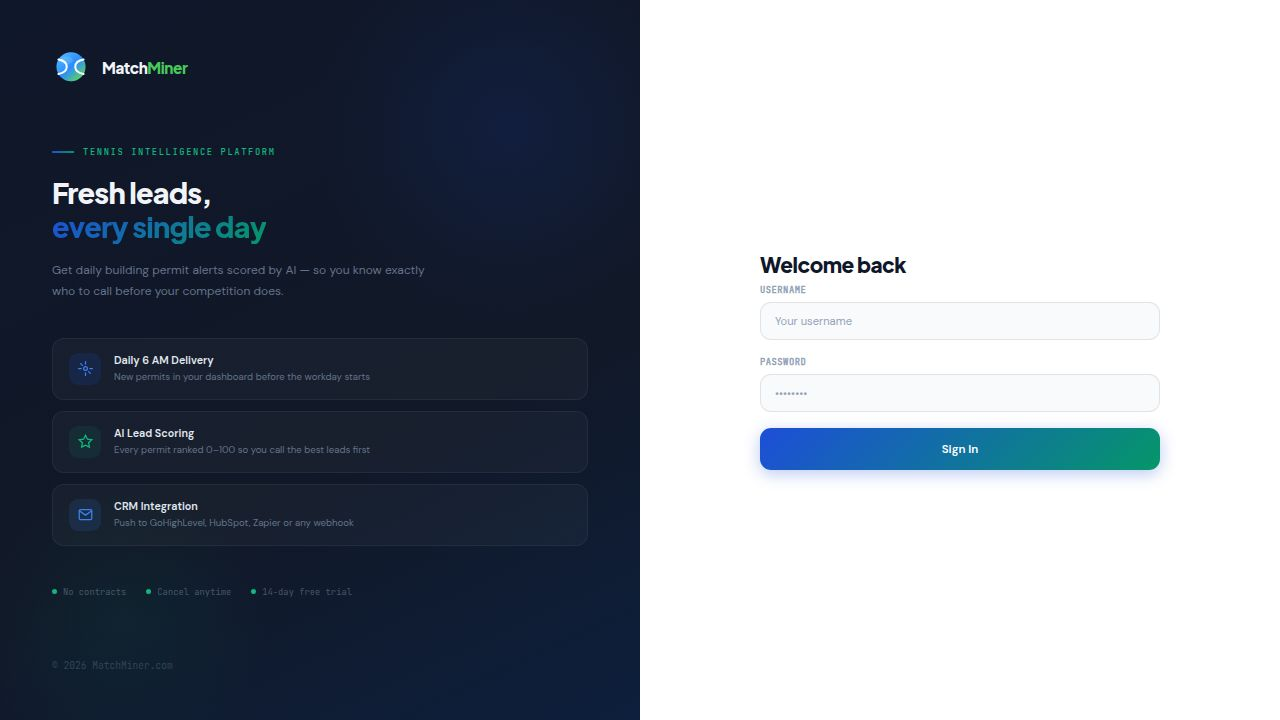
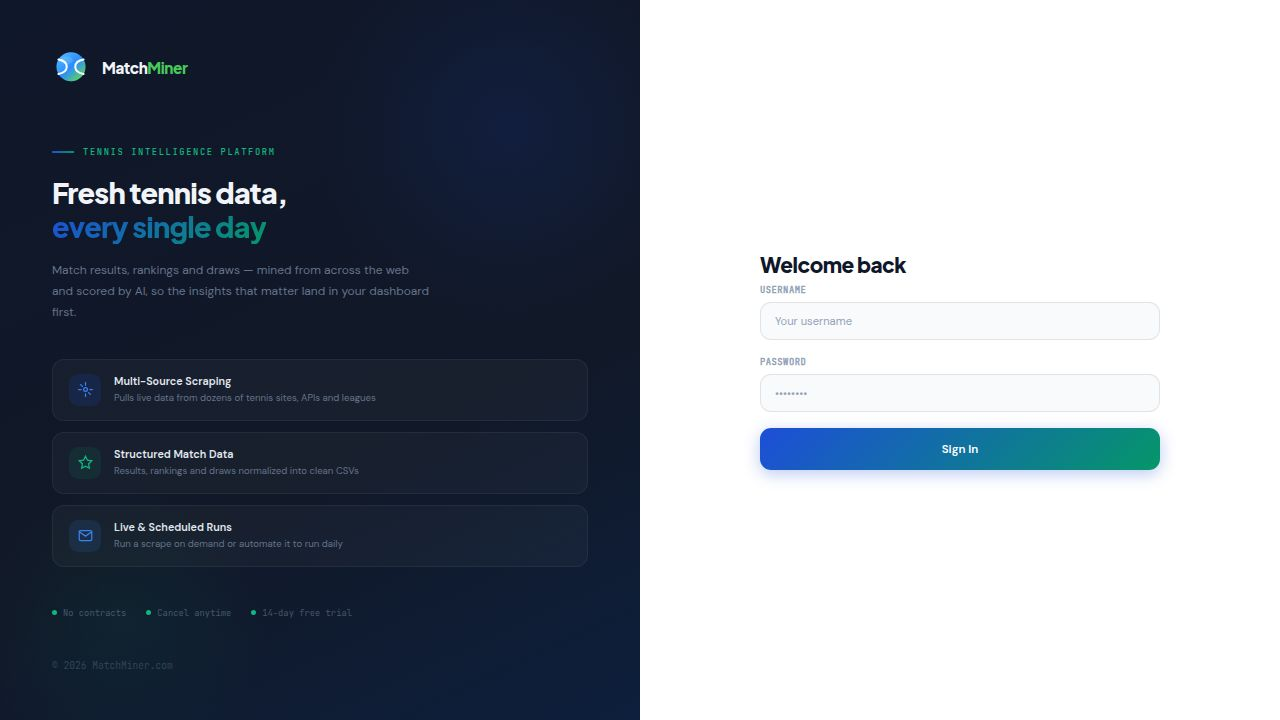
Add ability for administrators to delete tickets
Adds a superuser-only delete functionality for QA tickets, including a new view, URL, and template integration.

Replit-Commit-Author: Agent
Replit-Commit-Session-Id: 3cf00428-fbb9-4234-9f4e-7193761566a7
Replit-Commit-Checkpoint-Type: full_checkpoint
Replit-Commit-Event-Id: 6ff55e23-f6dd-40ef-ac4e-6764d45ed623
Replit-Commit-Screenshot-Url: https://storage.googleapis.com/screenshot-production-us-central1/347cd0ef-e1ba-481c-b9b8-097ef034f7eb/3cf00428-fbb9-4234-9f4e-7193761566a7/thIxktw
Replit-Helium-Checkpoint-Created: true

diff --git a/artifacts/permitlify/templates/qa_ticket.html b/artifacts/permitlify/templates/qa_ticket.html
@@ -34,10 +34,25 @@
       </div>
       <div class="qa-ticket-titlebar">
         <h1 class="qa-ticket-title">{{ ticket.title }}</h1>
-        <button class="btn btn-ghost btn-sm qa-edit-btn" id="editTicketBtn" type="button">
-          <svg viewBox="0 0 24 24" fill="none" stroke="currentColor" stroke-width="2" stroke-linecap="round" stroke-linejoin="round"><path d="M12 20h9"/><path d="M16.5 3.5a2.12 2.12 0 0 1 3 3L7 19l-4 1 1-4Z"/></svg>
-          Edit ticket
-        </button>
+        <div class="qa-ticket-actions">
+          <button class="btn btn-ghost btn-sm qa-edit-btn" id="editTicketBtn" type="button">
+            <svg viewBox="0 0 24 24" fill="none" stroke="currentColor" stroke-width="2" stroke-linecap="round" stroke-linejoin="round"><path d="M12 20h9"/><path d="M16.5 3.5a2.12 2.12 0 0 1 3 3L7 19l-4 1 1-4Z"/></svg>
+            Edit ticket
+          </button>
+          {% if request.user.is_superuser %}
+          <form method="post" action="{% url 'qa_ticket_delete' ticket.uuid %}" class="qa-delete-form"
+                data-confirm="Delete this ticket permanently? Its comments and notifications will be removed. This can’t be undone."
+                data-confirm-title="Delete ticket?"
+                data-confirm-ok="Delete ticket"
+                data-confirm-tone="danger">
+            {% csrf_token %}
+            <button type="submit" class="btn btn-ghost btn-sm qa-delete-btn">
+              <svg viewBox="0 0 24 24" fill="none" stroke="currentColor" stroke-width="2" stroke-linecap="round" stroke-linejoin="round"><path d="M3 6h18"/><path d="M8 6V4a2 2 0 0 1 2-2h4a2 2 0 0 1 2 2v2"/><path d="M19 6l-1 14a2 2 0 0 1-2 2H8a2 2 0 0 1-2-2L5 6"/><path d="M10 11v6"/><path d="M14 11v6"/></svg>
+              Delete
+            </button>
+          </form>
+          {% endif %}
+        </div>
       </div>
       <div class="qa-ticket-by">
         <span class="qa-avatar qa-avatar--sm">{{ ticket.created_by.username|first|upper|default:"?" }}</span>

diff --git a/artifacts/permitlify/static/css/styles.css b/artifacts/permitlify/static/css/styles.css
@@ -2702,6 +2702,11 @@ body.mm-modal-open { overflow: hidden; }
 .qa-ticket-titlebar .qa-ticket-title { flex: 1 1 auto; }
 .qa-edit-btn { flex: none; gap: 6px; }
 .qa-edit-btn svg { width: 15px; height: 15px; }
+.qa-ticket-actions { display: flex; align-items: center; gap: 8px; flex: none; }
+.qa-delete-form { display: inline-flex; margin: 0; }
+.qa-delete-btn { gap: 6px; color: var(--app-maint); }
+.qa-delete-btn svg { width: 15px; height: 15px; }
+.qa-delete-btn:hover { background: var(--app-maint); border-color: var(--app-maint); color: #fff; }
 @media (max-width: 760px) {
   .qa-ticket-titlebar { flex-direction: column; align-items: stretch; gap: 10px; }
   .qa-edit-btn { align-self: flex-start; }

diff --git a/artifacts/permitlify/accounts/qa_views.py b/artifacts/permitlify/accounts/qa_views.py
@@ -254,6 +254,27 @@ def ticket_edit(request, uuid):
 
 @login_required
 @require_POST
+def ticket_delete(request, uuid):
+    """Delete a ticket — **admins (superusers) only**.
+
+    Mirrors the superuser gate the Users admin uses: a non-superuser is bounced
+    back to the ticket with an error and nothing is removed (defence in depth —
+    the button is also hidden for them in the template). The cascade drops the
+    ticket's comments and notifications; attachments survive (their ticket FK is
+    ``SET_NULL``) and stay reachable by their own URL.
+    """
+    ticket = get_object_or_404(Ticket, uuid=uuid)
+    if not request.user.is_superuser:
+        messages.error(request, "Only an admin can delete tickets.")
+        return redirect("qa_ticket", uuid=ticket.uuid)
+    title = ticket.title[:80]
+    ticket.delete()
+    messages.success(request, f"Ticket “{title}” was deleted.")
+    return redirect("qa_board")
+
+
+@login_required
+@require_POST
 def ticket_update(request, uuid):
     ticket = get_object_or_404(Ticket, uuid=uuid)
     new_status = request.POST.get("status")

diff --git a/artifacts/permitlify/accounts/urls.py b/artifacts/permitlify/accounts/urls.py
@@ -77,6 +77,7 @@ urlpatterns = [
     path("qa/t/<uuid:uuid>/", qa_views.ticket_detail, name="qa_ticket"),
     path("qa/t/<uuid:uuid>/update/", qa_views.ticket_update, name="qa_ticket_update"),
     path("qa/t/<uuid:uuid>/edit/", qa_views.ticket_edit, name="qa_ticket_edit"),
+    path("qa/t/<uuid:uuid>/delete/", qa_views.ticket_delete, name="qa_ticket_delete"),
     path("qa/t/<uuid:uuid>/comment/", qa_views.comment_add, name="qa_comment_add"),
     path("qa/attachments/", qa_views.attachment_upload, name="qa_attachment_upload"),
     path(

diff --git a/replit.md b/replit.md
@@ -75,7 +75,7 @@ Django's built-in auth. Seeded login: username `salman` (password set out-of-ban
     - **Settings** — "Routing & performance": pick the `Proxy` (or Direct connection) + worker-threads (1–16) + total tries per request (1–10) → saves `Scraper.proxy` + `Scraper.threads` + `Scraper.max_tries`. The try budget is applied process-wide per run via `_http.set_default_tries()` in the worker; every HTTP client default (curl `ScraperClient`, Stadion `_get_json`, Playwright `BrowserClient`) inherits it — see the `retry-budget-setting` memory.
     - **Status** — Production/Maintenance radio + message; gates real-time runs.
   - **Proxies** (`/proxies/`) — manage proxy pools (name + type + optional address), counts by type, "Used by", delete. Addresses rendered via `display_address` (masked). Per-scraper selection lives in the Lab's Settings tab.
-  - **QA Team Tasks** (`/qa/`) — Jira-like ticketing per scraper. Kanban board (To Do / In Progress / Done) with a scraper filter; create modal (scraper dropdown, title, priority, Quill rich-text body with inline image upload). Ticket detail (`/qa/t/<uuid>/`) renders the **server-sanitized** body, a comments thread (also Quill), and a sidebar to set status/priority/assignee. An **Edit ticket** button opens a pre-filled modal (mirroring the create modal: scraper/title/status/priority + Quill body) that POSTs to `qa_ticket_edit` for a full edit of any field at any time (re-sanitizes the body; status changes notify like the sidebar). Rich text is locked down in `accounts/sanitize.py` (nh3 allowlist) and rendered with `|safe`; see the `qa-rich-text-sanitization` memory for the lockstep rules. Inline images upload to `/qa/attachments/` (login-gated, magic-byte sniff PNG/JPEG/GIF/WebP, 5MB, no SVG, `nosniff`) and are served back from the same route; the editor uploads on toolbar-pick/paste/drop and inserts the URL, never base64. Backend lives in `accounts/qa_views.py`; Quill 2.0.3 is vendored under `static/vendor/quill/`.
+  - **QA Team Tasks** (`/qa/`) — Jira-like ticketing per scraper. Kanban board (To Do / In Progress / Done) with a scraper filter; create modal (scraper dropdown, title, priority, Quill rich-text body with inline image upload). Ticket detail (`/qa/t/<uuid>/`) renders the **server-sanitized** body, a comments thread (also Quill), and a sidebar to set status/priority/assignee. An **Edit ticket** button opens a pre-filled modal (mirroring the create modal: scraper/title/status/priority + Quill body) that POSTs to `qa_ticket_edit` for a full edit of any field at any time (re-sanitizes the body; status changes notify like the sidebar). A **superuser-only Delete** button sits next to Edit (confirm-guarded via the global `#mmConfirm` convention) → POSTs to `qa_ticket_delete`; the view re-checks `is_superuser` server-side (non-supers are bounced back with an error), then cascades the ticket's comments + notifications (attachments are `SET_NULL`, so they survive) and redirects to the board. Members never see the button and can't delete via direct POST. Rich text is locked down in `accounts/sanitize.py` (nh3 allowlist) and rendered with `|safe`; see the `qa-rich-text-sanitization` memory for the lockstep rules. Inline images upload to `/qa/attachments/` (login-gated, magic-byte sniff PNG/JPEG/GIF/WebP, 5MB, no SVG, `nosniff`) and are served back from the same route; the editor uploads on toolbar-pick/paste/drop and inserts the URL, never base64. Backend lives in `accounts/qa_views.py`; Quill 2.0.3 is vendored under `static/vendor/quill/`.
   - **Notifications** — a navbar bell (`partials/notifications_bell.html`, polls `/qa/notifications/poll/` ~30s) fed by `accounts/context_processors.py`. `_notify()` fans out a `Notification` to all active users except the actor on ticket-created / comment-added / status-changed. Bell supports mark-all-read (`/qa/notifications/read-all/`) and click-through (`/qa/notifications/<id>/open/` marks read + redirects to the ticket).
   - **Users** (`/users/`) — **superuser-only** CRUD (add / edit / activate / deactivate / delete) with Django password validation. Protections: can't delete/demote/deactivate yourself, and can't remove the last active superuser. Non-superusers are redirected away. Mirrors the `proxies_view` POST-action pattern; edit uses a small modal pre-filled from row `data-*` attributes.
   - **Run log viewer** (`/scrapers/<slug>/runs/<uuid>/log/`) — paginated log + downloads; reads live `RunLogLine` rows while running, the materialised `log_text` snapshot once finished.